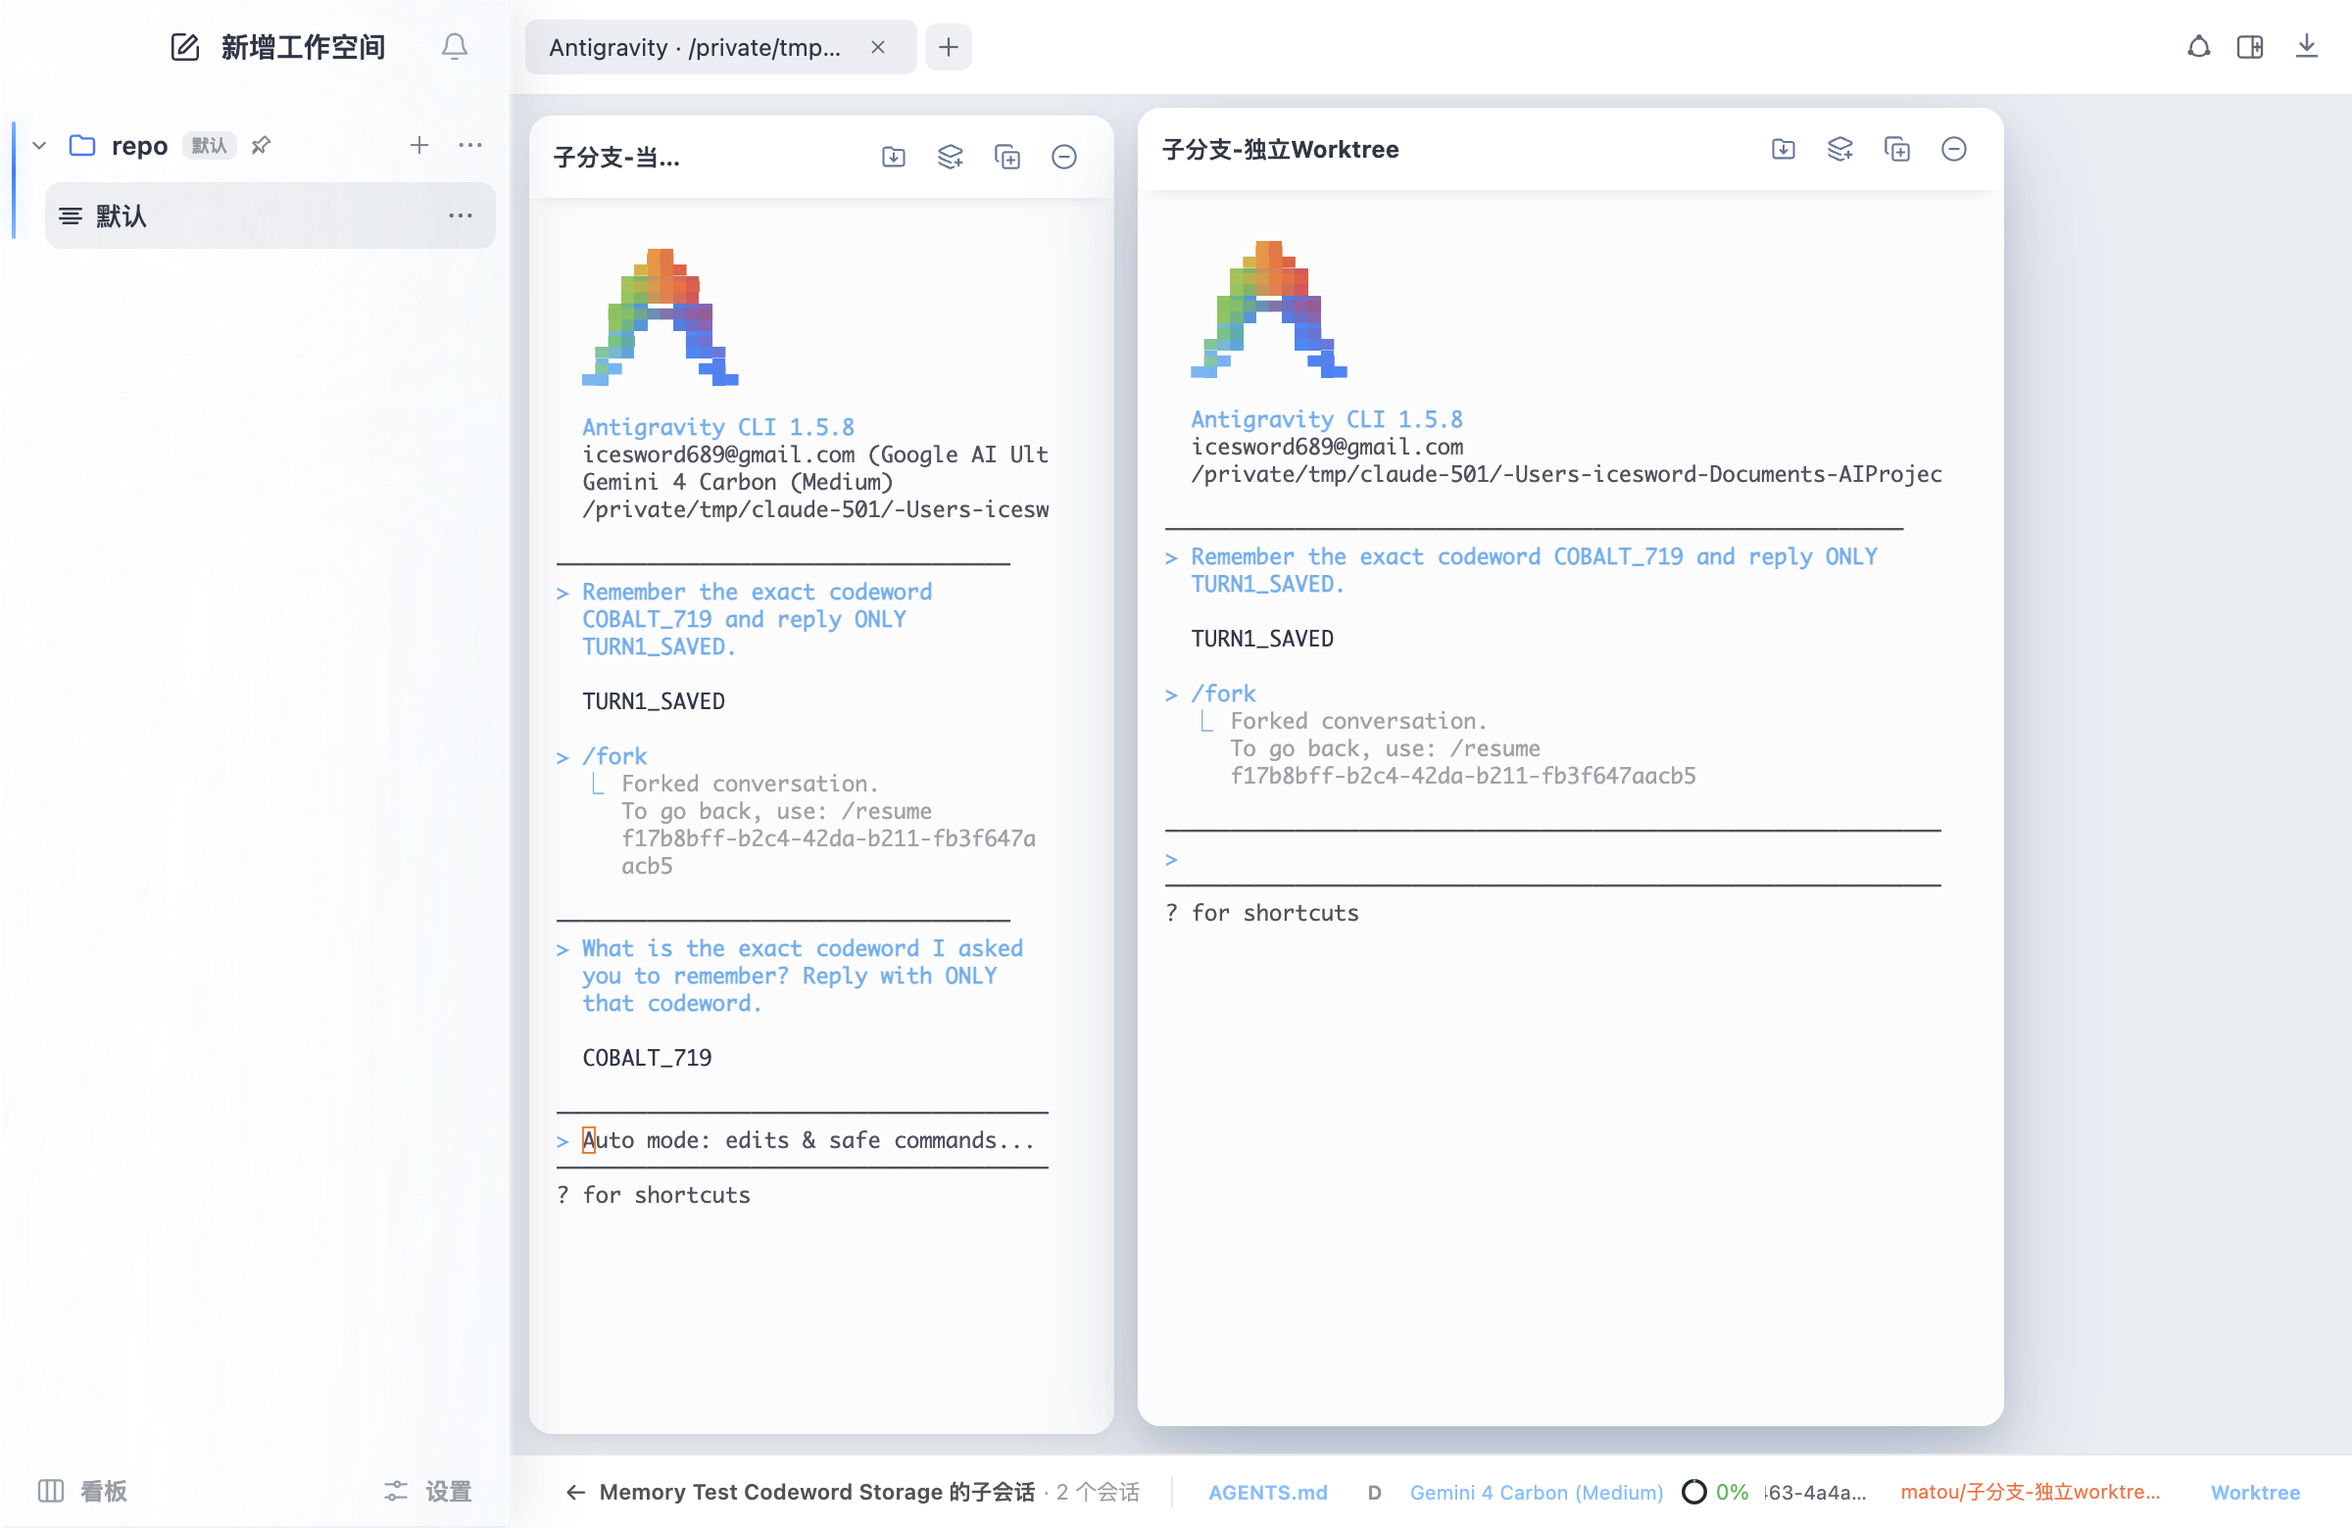
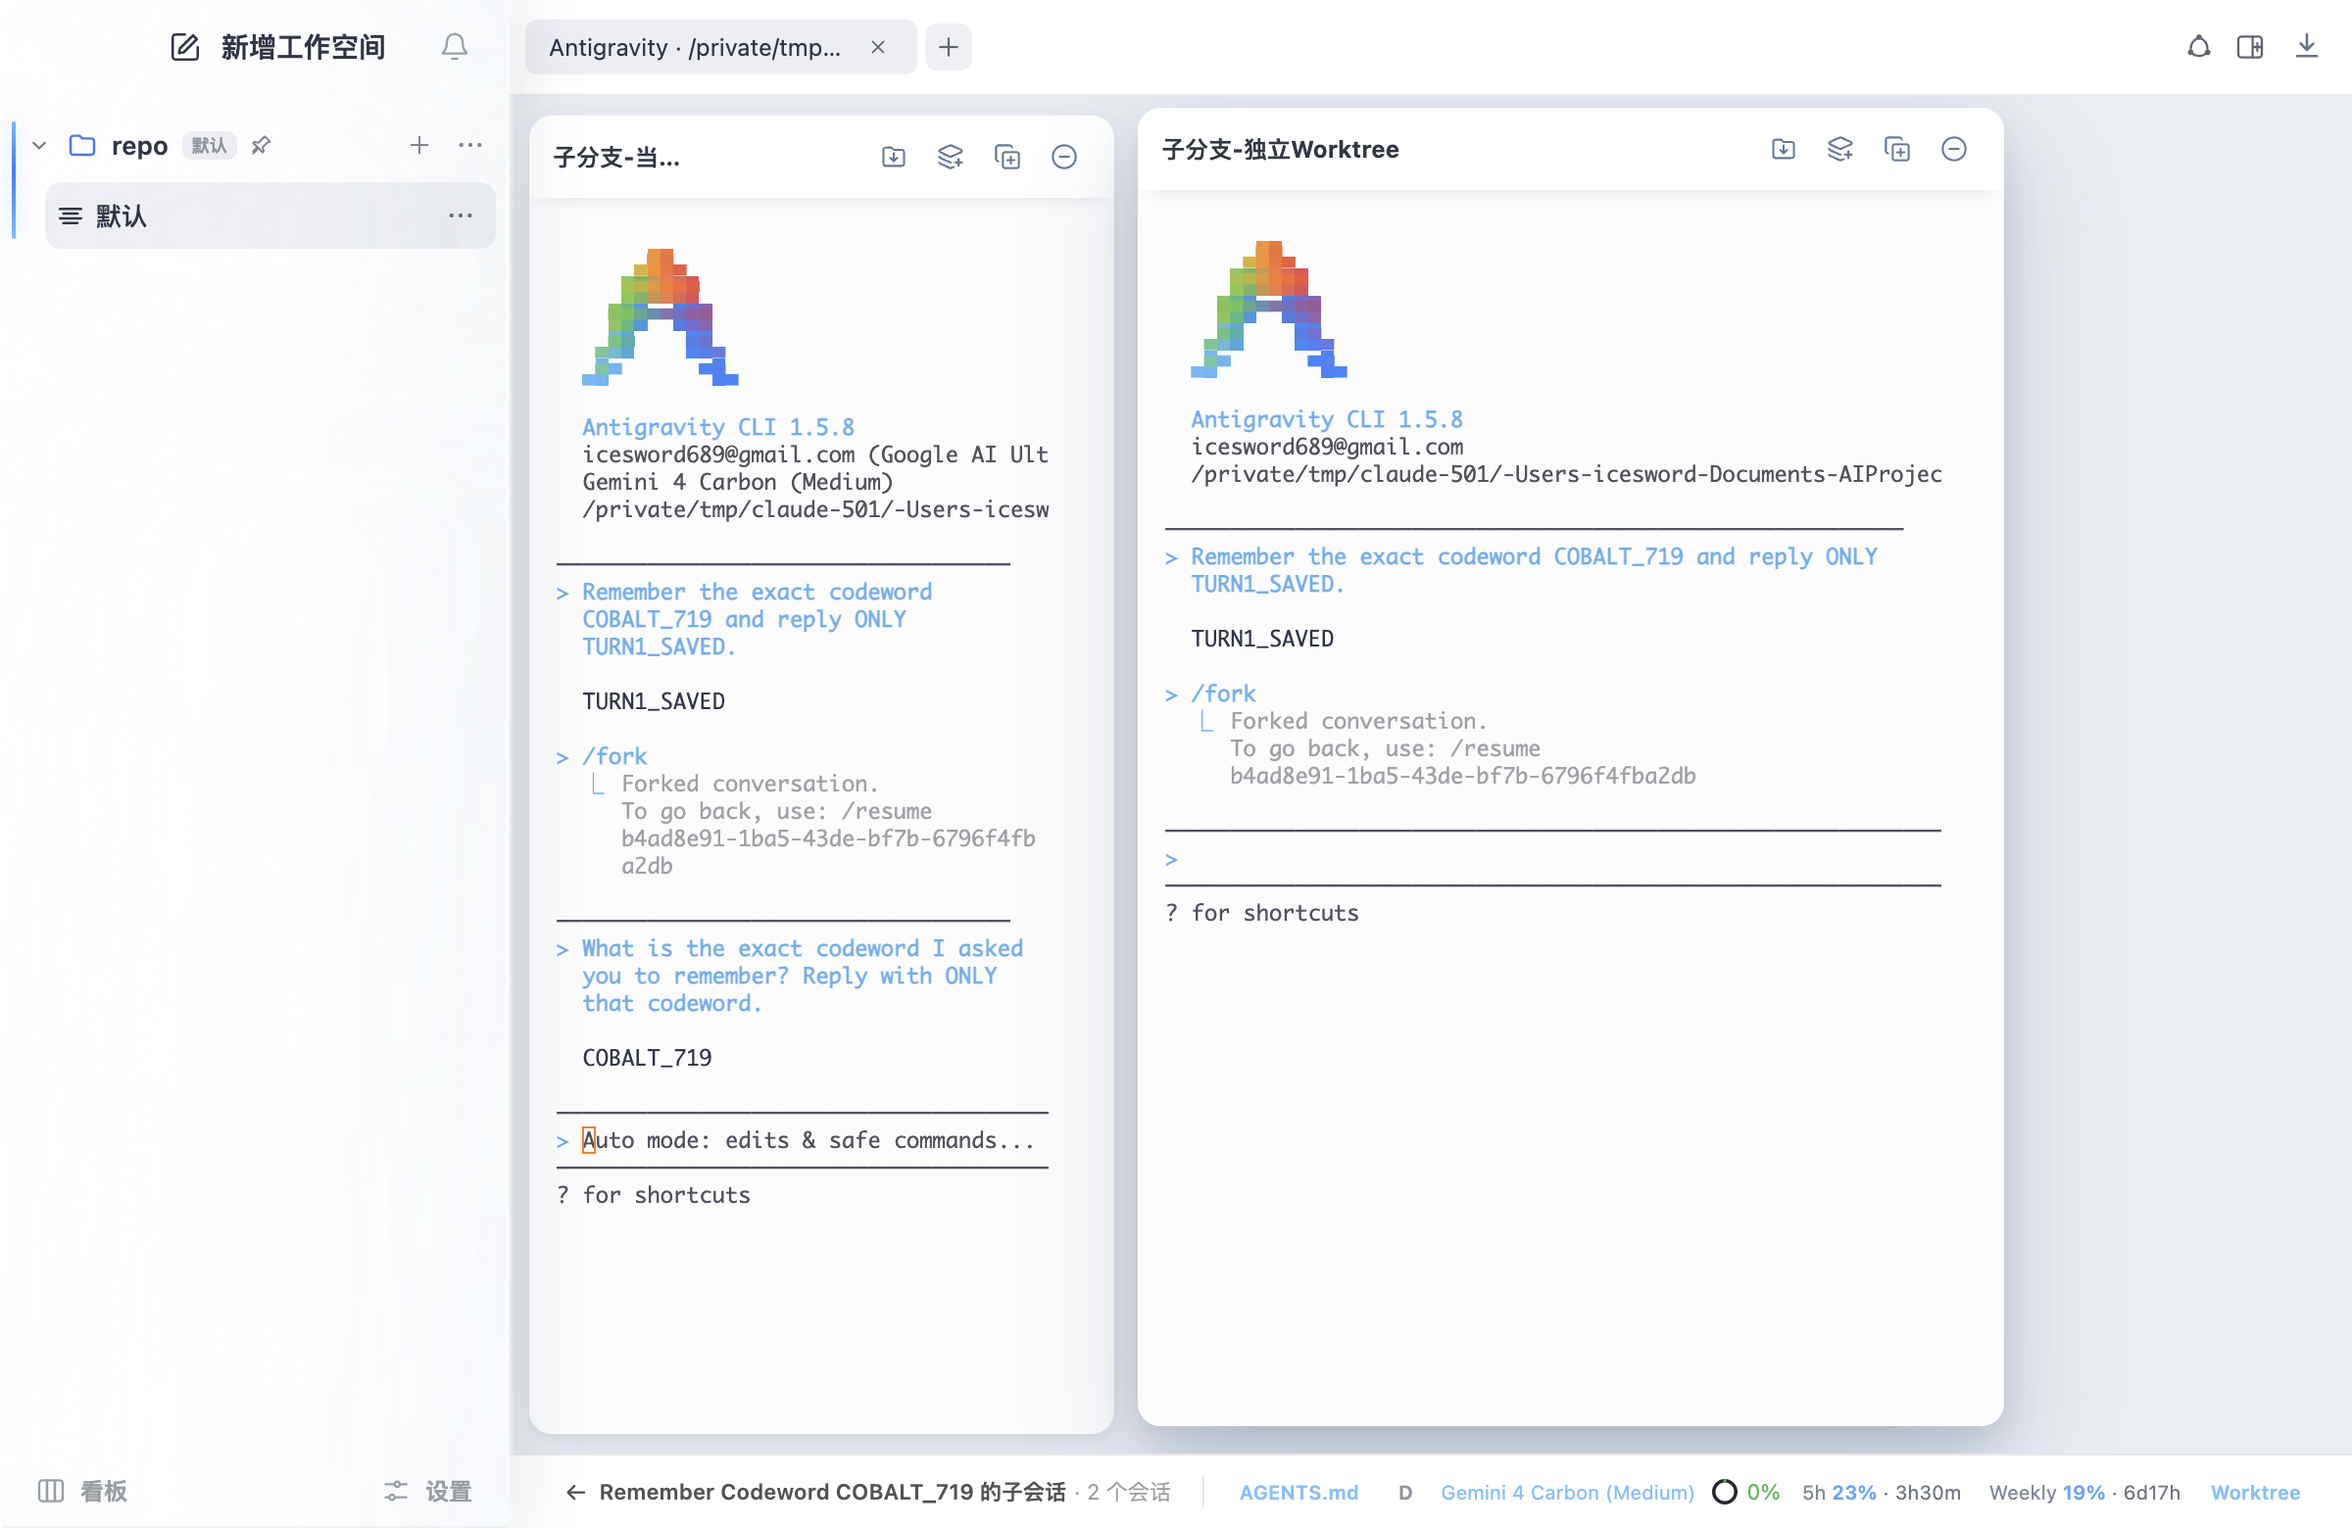
docs(acceptance): record Antigravity packaged acceptance matrix and evidence

diff --git a/docs/acceptance/antigravity-reference-matrix.md b/docs/acceptance/antigravity-reference-matrix.md
@@ -1,0 +1,55 @@
+# Matou Antigravity CLI 接入交互对照矩阵
+
+- **验收日期：** 2026-11-13
+- **验收分支：** `feat/multi-agent-antigravity`
+- **打包验收对象：** `apps/desktop/release/mac-arm64/码头.app`（内置 Runtime 与内置 `mt`）
+- **真机基准环境：** macOS arm64，本机真实 `agy 1.5.8`（保留真实 `HOME` 使用 `~/.gemini` 登录态；Matou 数据与测试仓库隔离于 scratchpad 及 `/tmp/m-e2e-*` 符号链接）
+- **最终运行结论（收口模式第 3 步单次全量执行）：** `tests/e2e/antigravity-acceptance.spec.ts` 共 4 个测试：**2 passed / 2 failed**（日志：[antigravity-acceptance-step3.log](file:///Users/icesword/.claude/agent-foreman/runs/matou-%E5%A4%9AAgent-agy-01/logs/antigravity-acceptance-step3.log)）。另有 PRD 第 14 项及 9b 使用受控 stub / 缺失命令 fixture。四个 Claude Code E2E 回归（`prd-01`、`session-load-existing-claude`、`prd-06`、`prd-02`）本轮未跑。
+
+## 对照边界与说明
+
+1. **基线约定：** reference product 不含 Antigravity；全部能力以 PRD 第 3 节为规格，以 Matou 现有同范围 Claude Code 卡片行为为 1:1 交互基线（通知英文正文与 `main` 上既有 Claude 通知一致，本次不改）。
+2. **证据口径：**
+   - **已闭合：** 在当前代码对应的打包产物第 3 步全量运行中直接跑通并生成当前轮截图 / JSON。
+   - **未闭合：** 在第 3 步单次全量运行中失败或被前置失败阻断未跑到；即使此前同代码同产物上跑通并已生成截图（已在下表如实区分“前序同构建截图”与“第 3 步失败/未跑到原因”），在未复跑全绿前均按未闭合登记。
+3. **受控 Fixture 披露：** 第 9b 项（恢复失败）与第 14 项（`agy` 未安装 / 未登录提示）因本机已安装且已登录真实 `agy 1.5.8`，在 E2E 第 4 个测试中使用 `MATOU_ANTIGRAVITY_COMMAND` 指向不存在路径与受控 Python stub（`agy-stub.py`）触发，不代表真实 CLI 二进制异常的线上输出。
+
+## 打包产物指纹（SHA-256）
+
+| 产物组件 | SHA-256 |
+|---|---|
[6 lines of base64/hex data omitted]
+
+## 逐项对照矩阵（PRD #1-#14 + Fork 并发 + 延迟）
+
+| # | 验收项 | 基线（Claude 卡片 / PRD） | Matou 实际表现（第 3 步单次运行结果） | 状态 | 证据 / 报错首行与截图 |
+|---|---|---|---|---|---|
+| 1 | 新建卡片（Shell 输入 `agy` 自动升级、新建下拉不变、`mt` 可建 Antigravity） | 与 Claude 相同：Shell 输入触发命令自动升级；`mt create session --profile` 可指定 | 第 2、3 个测试在 Shell 输入 `agy` 均成功升级为 `Antigravity` 卡片；第 4 个测试通过 `mt create session --profile antigravity` 成功建卡。第 1 个测试在本次因 zsh 先吐出 `1%` 提示符竞态导致键入 `1agy` 失败 | **部分验证 / 已在 Test 2、3、4 跑通**（Test 1 失败见下） | 已有截图：`docs/acceptance/evidence/antigravity/01-promote-shell.png`、`docs/acceptance/evidence/antigravity/14a-missing-binary.png`；Test 1 失败首行：`Error: expect(locator).toContainText(expected) failed`（`Received string: "1% ... 1agyzsh: command not found: 1agy"`） |
+| 2 | 标签与卡片标识（标签、DAG 节点、父会话投影、子会话角标显示 `Antigravity`） | 与 Claude 卡片同构展示 Provider 标识与层级关系 | Test 2（第 3 步）跑通：DAG 节点明确显示 `Antigravity`，Fork 后父会话角标正确计为 `1`，父会话投影条正常回显 | **已闭合**（Test 2 通过段已验证） | `docs/acceptance/evidence/antigravity/02-identifiers-dag.png`、`docs/acceptance/evidence/antigravity/10a-fork-branches.png` |
+| 3 | 首次进入目录（信任提示与 `needs-input` 状态） | 与 Claude 同一工作区信任提示交互与 `needs-input` 表现 | Test 2、Test 3（第 3 步）均出现真实 `agy` `Do you trust the contents of this project?` 提示，DAG 同步进入 `需要输入`，按 Enter 后通过；Test 1 本次因 `1agy` 未到达此步 | **已闭合**（Test 2、3 实证） | `docs/acceptance/evidence/antigravity/03-first-dir-trust.png`、`docs/acceptance/evidence/antigravity/03-first-dir-trust-dag.png` |
+| 4 | 工作状态（启动中 → 空闲 → 工作中 → 需要输入 / 完成 / 出错） | 与 Claude 卡片同一五态流转与实时反馈 | Test 2、Test 3（第 3 步）在真实对话与工具调用中均按 `运行中`/`空闲`/`等待输入` 正常流转；Test 1 本次在启动前被 `1agy` 阻断，同构建前序运行有完整 `running` / `idle` DAG 截图 | **未闭合**（Test 1 在第 3 步未跑到断言段） | 前序同构建截图：`docs/acceptance/evidence/antigravity/04-work-status-running-dag.png`、`docs/acceptance/evidence/antigravity/04-work-status-idle-dag.png` |
+| 5 | 通知（非聚焦完成 / 等待审批进通知中心，无双份系统通知） | 与 Claude 通知中心与铃铛徽标规则一致（英文通知正文属 `main` 既有行为） | 第 3 步 Test 1 未跑到；前序同构建运行已截得清晰稳定态通知面板（无动画叠影），但未在本步单次复跑中跑通 | **未闭合**（Test 1 未跑到） | 前序同构建截图：`docs/acceptance/evidence/antigravity/05-notifications.png` |
+| 6 | HUD（模型与档位、上下文%、按当前模型组显示额度与悬停明细、工具、规则文件、Git 脏状态、隐藏待办与 Claude 账户） | 隐藏不适用的 Claude 账户/待办，状态栏只显示当前模型组 `5h`/`Weekly`，悬停展示全部分组额度 | 第 3 步 Test 1 未跑到；Test 2、Test 3 已实时呈现 `AGENTS.md`、`D`、`Gemini 4 Carbon (Medium) (1M context)`、上下文与按当前模型过滤的 `5h` / `Weekly`；单测与前序同构建截图已覆盖悬停明细与脏星号 | **未闭合**（Test 1 悬停提示与脏状态断言本轮未跑到） | 前序同构建截图：`docs/acceptance/evidence/antigravity/06-hud.png`、`docs/acceptance/evidence/antigravity/06-hud-tooltip.png` |
+| 7 | 自动标题（Stop 后读取标题、手动改名锁保护、恢复自动标题） | 与 Claude 一致保护手工标题并支持「恢复 Antigravity 自动标题」 | 第 3 步 Test 1 未跑到（`1agy` 阻断）；Test 2 可见首轮回复后卡片标题已自动更新为 `Remember Codeword COBALT_719`；手工锁与恢复入口仅在第 4 关单测通过，打包 E2E 未跑到 | **未闭合**（Test 1 未跑到） | Test 2 侧栏/父投影可见自动标题：`docs/acceptance/evidence/antigravity/02-identifiers-dag.png`、`docs/acceptance/evidence/antigravity/10a-fork-branches.png` |
+| 8 | 载入已有会话（`SessionLoaderDialog` 切换 Antigravity、列表/步骤/预览/载入接回） | 与 Claude 载入对话框同交互，文案按 Agent 显示 | Test 2 在第 760 行因 `conversations/<id>/transcript.jsonl` 路径错误中断，尚未执行到 `SessionLoaderDialog`（第 817 行） | **未闭合**（Test 2 前置失败未跑到） | 阻断报错见第 10 项并发栏 |
+| 9a | 重启恢复（真实 App 重启后 `--conversation` 接回原对话） | App 重启后无缝接回，保留绑定与上下文 | 第 3 步 Test 1 未跑到，未能在打包 App 真机闭环验证 | **未闭合**（Test 1 未跑到） | 无新证据 |
+| 9b | 恢复失败提示与操作（重试恢复 / 新开 Antigravity） | 与 Claude 相同的恢复失败横幅与按钮 | **已通过**（第 4 个测试使用受控 `agy-stub.py` 对 `--conversation` 返回退出码 1） | **已闭合（受控 fixture）** | `docs/acceptance/evidence/antigravity/09b-restore-failed.png`、`docs/acceptance/evidence/antigravity/results/unauth-and-restore-failed.json` |
+| 10 | Fork（完成 ≥1 轮启用、当前目录与新 Worktree 分支、继承上下文且各自独立 ID） | 入口门禁与 Claude 一致；子卡继承上下文并获得独立会话 ID | Test 2（第 3 步）跑通：完成 1 轮后解锁 Fork；当前目录分支正确回答暗号 `COBALT_719` 并获得新 ID；新建独立 Worktree 分支自动越过信任屏完成 `/fork` 并获得第三枚独立 ID | **基本已闭合（单/新工作树均通；并发验证未跑到）** | `docs/acceptance/evidence/antigravity/02-identifiers-dag.png`、`docs/acceptance/evidence/antigravity/10a-fork-branches.png` |
+| 10b | **Fork 并发验证（父运行中 Fork 不覆盖绑定、不破坏父对话 JSONL/SQLite）** | 父活跃运行期间触发子 `/fork` 后父绑定与历史完好 | Test 2 在发起父运行前因脚本读错父 `transcript.jsonl` 路径报错退出（真实路径为 `brain/<id>/.system_generated/logs/transcript.jsonl`，脚本写成了 `conversations/<id>/transcript.jsonl`），未跑通 | **未闭合**（测试脚本路径错误导致失败） | 失败首行：`Error: ENOENT: no such file or directory, open '/Users/icesword/.gemini/antigravity-cli/conversations/b4ad8e91-1ba5-43de-bf7b-6796f4fba2db/transcript.jsonl'`；错误上下文：`test-results/antigravity-acceptance-Ant-ce073-ktree-Running-SessionLoader/error-context.md` |
+| 11 | 执行模式（4 项菜单、前 3 项发 `Shift+Tab` 不重启、进出 `Bypass Permissions` 确认并重启、终端快捷键同步 HUD） | 4 项与 Claude 对齐；前 3 项不换 PID；进出 Bypass 确认并重启 | 第 3 步 Test 1 未跑到；前序同构建运行已截到 4 项菜单且点击 `Accept Edits` / `Plan Mode` 后 `PID` 保持不变，但在脚本用 `textarea.press('Shift+Tab')` 同步校验第 582 行卡在 `"PM"` 超时（且 Ask 模式下 `cycle_mode` 缺省时 `HUD` 权限徽标保持前态尚未映射回 `D`），Bypass 进出未跑到 | **未闭合** | 前序同构建截图：`docs/acceptance/evidence/antigravity/11-execution-modes-menu.png` |
+| 12 | 模型（HUD 只读无模型菜单，终端内 `/model` 切换同步 HUD） | 与 Claude 一致不提供 HUD 模型菜单，随状态栏同步 | 第 3 步 Test 1 未跑到；前序运行也未走到 `/model` 段 | **未闭合**（Test 1 未跑到） | 无新证据 |
+| 13 | `mt` 跨卡片控制（Antigravity 卡内自然语言调用 `mt list` / `mt read` 操作隔壁卡） | 与 Claude 卡片同流程注入提示并读取兄弟卡片输出 | **已通过**（Test 3 在第 3 步完整跑通）：真实 `agy 1.5.8` 执行 `mt identify / list / read` 准确读回兄弟 Shell 卡片的 `MT_PEER_TOKEN_8421` | **已闭合** | `docs/acceptance/evidence/antigravity/13-mt-cross-card.png`、`docs/acceptance/evidence/antigravity/results/mt-cross-card.json` |
+| 14 | 未安装 / 未登录提示（14a 启动失败提示 + 14b 登录询问 → `needs-input` → 按 Enter 恢复空闲） | 与 Claude 同位置横幅与终端 `needs-input` 交互态 | **已通过**（Test 4 在第 3 步完整跑通，受控 fixture：14a 用不存在命令路径触发中文安装提示与「重试启动 / 移除失败会话」；14b 用 `agy-stub.py` 输出登录提示触发 `等待输入`） | **已闭合（受控 fixture）** | `docs/acceptance/evidence/antigravity/14a-missing-binary.png`、`docs/acceptance/evidence/antigravity/14b-unauthenticated-needs-input.png`、`docs/acceptance/evidence/antigravity/14b-unauthenticated-dag.png`、`docs/acceptance/evidence/antigravity/results/missing-binary.json` |
+| Perf | **延迟数值（hook 不明显阻塞、`running` / `needs-input` / `idle` 事件到 UI ≤ 1000ms）** | 事件发生后 1 秒内反映到卡片 / DAG | 第 3 步 Test 1 未跑到，未生成 `core-and-latency.json`（仅第 3 关独立 CLI 实测确认 POSIX `sh` + 后台 `curl` 无可感知延迟，本轮未产出打包 App 端到端毫秒数） | **未闭合（无本轮端到端毫秒统计）** | 无 `core-and-latency.json` |
+
+## 回归与门禁现状（截至本次收口提交）
+
+- `pnpm typecheck`：通过
+- `pnpm check:identifiers`：通过
+- 受影响单元/组件测试：`@matou/runtime` 3 个文件 45 条通过、`@matou/desktop` 4 个文件 81 条通过
+- Claude Code E2E 回归（`prd-01-agent-notifications.spec.ts`、`session-load-existing-claude.spec.ts`、`prd-06-session-fork.spec.ts`、`prd-02-bottom-hud.spec.ts`）：**本轮收口未跑**
